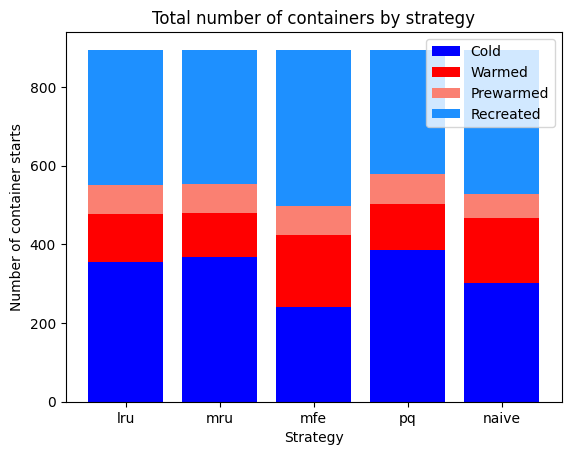
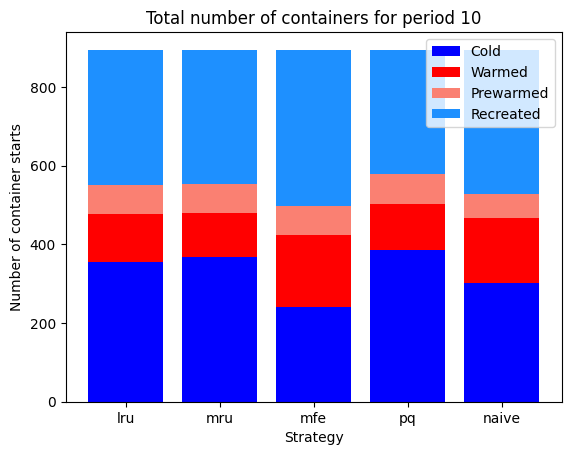
Make title include periodicity

Changed region(s): [[0.268, 0.0, 0.8634, 0.0615]]

diff --git a/plot_container_states.py b/plot_container_states.py
@@ -15,12 +15,10 @@ strats = [
     "mru",
     "mfe",
     "pq",
-    # "rs",
     "naive"
 ]
 
-periods = [5,]
-# periods = ["5", "10", "15"]
+periods = [5, 10, 15]
 
 total_cold_container_stats = {
     5: {},
@@ -91,7 +89,7 @@ for period in periods:
     axs.bar(total_warm_container_stats[period].keys(), total_warm_container_stats[period].values(), bottom=np.array(list(total_cold_container_stats[period].values())), label="Warmed", color="red")
     axs.bar(total_prewarmed_container_stats[period].keys(), total_prewarmed_container_stats[period].values(), bottom=np.array(list(total_cold_container_stats[period].values())) + np.array(list(total_warm_container_stats[period].values())),label="Prewarmed", color="salmon")
     axs.bar(total_recreated_container_stats[period].keys(), total_recreated_container_stats[period].values(), label="Recreated", bottom=np.array(list(total_cold_container_stats[period].values())) + np.array(list(total_warm_container_stats[period].values())) + np.array(list(total_prewarmed_container_stats[period].values())), color="dodgerblue")
-    plt.title("Total number of containers by strategy")
+    plt.title(f"Total number of containers for period {period}")
     plt.xlabel("Strategy")
     plt.ylabel("Number of container starts")
     plt.legend()
